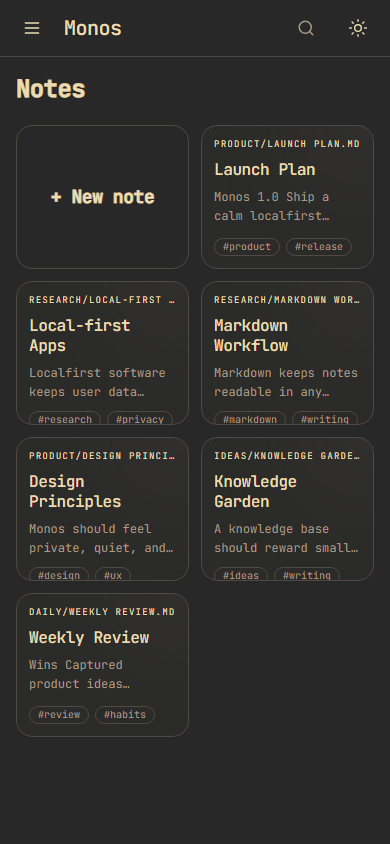
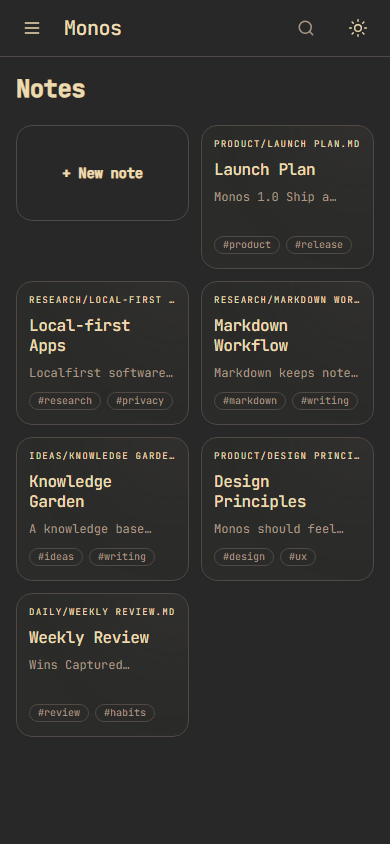
fix: polish public screenshots and note cards
Tighten board card footers, localize opened dates, add real interface screenshots, and clarify the landing page architecture.

diff --git a/site/index.html b/site/index.html
@@ -43,7 +43,7 @@
       }
 
       .page {
-        width: min(1120px, calc(100% - 32px));
+        width: min(1180px, calc(100% - 32px));
         margin: 0 auto;
       }
 
@@ -57,20 +57,12 @@
       .brand {
         display: flex;
         align-items: center;
-        gap: 12px;
         font-weight: 760;
         letter-spacing: -0.03em;
       }
 
-      .mark {
-        display: grid;
-        width: 36px;
-        height: 36px;
-        place-items: center;
-        border: 1px solid var(--line);
-        border-radius: 12px;
-        background: linear-gradient(145deg, #2f2b24, #1f1d1a);
-        color: var(--accent);
+      .brand-word {
+        font-size: 18px;
       }
 
       .nav-links {
@@ -81,12 +73,13 @@
       }
 
       .hero {
-        display: grid;
-        grid-template-columns: 1fr 0.82fr;
-        gap: 56px;
-        align-items: center;
-        min-height: 680px;
-        padding: 56px 0 80px;
+        padding: 56px 0 88px;
+        text-align: center;
+      }
+
+      .hero-copy {
+        max-width: 820px;
+        margin: 0 auto;
       }
 
       .eyebrow {
@@ -112,7 +105,7 @@
 
       .lead {
         max-width: 620px;
-        margin: 24px 0 0;
+        margin: 24px auto 0;
         color: var(--muted);
         font-size: clamp(18px, 2vw, 22px);
         line-height: 1.58;
@@ -121,6 +114,7 @@
       .actions {
         display: flex;
         flex-wrap: wrap;
+        justify-content: center;
         gap: 12px;
         margin-top: 34px;
       }
@@ -147,6 +141,8 @@
 
       .mock {
         position: relative;
+        margin: 52px auto 0;
+        max-width: 1024px;
         border: 1px solid var(--line);
         border-radius: 30px;
         background: linear-gradient(180deg, #2a2926, #1e1e1c);
@@ -255,7 +251,7 @@
 
       .screenshots {
         display: grid;
-        grid-template-columns: 1.2fr 0.8fr;
+        grid-template-columns: repeat(2, minmax(0, 1fr));
         gap: 18px;
         align-items: start;
       }
@@ -266,6 +262,10 @@
         border-radius: 26px;
         background: var(--bg-soft);
         box-shadow: var(--shadow);
+      }
+
+      .shot.wide {
+        grid-column: 1 / -1;
       }
 
       .shot.mobile {
@@ -306,6 +306,55 @@
         gap: 12px;
       }
 
+      .architecture-map {
+        display: grid;
+        grid-template-columns: 0.85fr 1fr 1fr;
+        gap: 14px;
+        margin-bottom: 22px;
+        align-items: stretch;
+      }
+
+      .system-card {
+        min-height: 150px;
+        padding: 22px;
+        border: 1px solid var(--line);
+        border-radius: 24px;
+        background: rgba(255, 255, 255, 0.035);
+      }
+
+      .system-card strong {
+        display: block;
+        margin-bottom: 10px;
+      }
+
+      .system-card p,
+      .system-card li {
+        color: var(--muted);
+        line-height: 1.55;
+      }
+
+      .system-card ul {
+        margin: 0;
+        padding-left: 1.1rem;
+      }
+
+      .trust-strip {
+        display: grid;
+        grid-template-columns: repeat(3, 1fr);
+        gap: 12px;
+        margin: 18px 0 34px;
+      }
+
+      .trust-item {
+        border: 1px solid rgba(142, 192, 124, 0.24);
+        border-radius: 18px;
+        padding: 14px;
+        color: var(--accent-2);
+        background: rgba(142, 192, 124, 0.07);
+        font-size: 13px;
+        line-height: 1.45;
+      }
+
       .step {
         padding: 20px;
         border: 1px solid var(--line);
@@ -330,7 +379,9 @@
         .mock-body,
         .features,
         .screenshots,
-        .architecture {
+        .architecture,
+        .architecture-map,
+        .trust-strip {
           grid-template-columns: 1fr;
         }
 
@@ -354,8 +405,7 @@
     <div class="page">
       <nav class="nav" aria-label="Primary">
         <a class="brand" href="#">
-          <span class="mark">M</span>
-          <span>Monos</span>
+          <span class="brand-word">Monos</span>
         </a>
         <div class="nav-links">
           <a href="#features">Features</a>
@@ -367,7 +417,7 @@
 
       <main>
         <section class="hero">
-          <div>
+          <div class="hero-copy">
             <div class="eyebrow">Local-first notes for focused thinking</div>
             <h1>Your knowledge base, on your machine.</h1>
             <p class="lead">
@@ -431,10 +481,28 @@
             the website.
           </p>
           <div class="screenshots">
+            <figure class="shot wide">
+              <img src="media/monos-dashboard.png" alt="Monos dashboard with a mock product knowledge base" loading="lazy" />
+              <figcaption class="shot-caption">
+                Board view keeps recent notes visible as compact cards, including tags, content snippets, and the last opened time.
+              </figcaption>
+            </figure>
             <figure class="shot">
               <img src="media/monos-editor.png" alt="Monos editor with a mock launch plan note" loading="lazy" />
               <figcaption class="shot-caption">
                 Rich editor, note tree, wiki link text, and Markdown content in the desktop layout.
+              </figcaption>
+            </figure>
+            <figure class="shot">
+              <img src="media/monos-search.png" alt="Monos search results over a mock knowledge base" loading="lazy" />
+              <figcaption class="shot-caption">
+                Header search works across titles, tags, and note bodies while keeping the board as the main surface.
+              </figcaption>
+            </figure>
+            <figure class="shot">
+              <img src="media/monos-settings.png" alt="Monos settings screen for theme and typography" loading="lazy" />
+              <figcaption class="shot-caption">
+                Settings expose the practical controls: theme, typography, editor mode, locale, and Git sync.
               </figcaption>
             </figure>
             <figure class="shot mobile">
@@ -449,8 +517,32 @@
         <section class="section" id="architecture">
           <h2>Simple architecture, clear ownership.</h2>
           <p class="section-intro">
-            Electron hosts a local Express API and a Svelte frontend. Markdown files remain the source of truth.
+            Electron hosts a local Express API and a Svelte frontend. Markdown files remain the source of truth, while
+            SQLite stays a rebuildable index.
           </p>
+          <div class="architecture-map" aria-label="Monos technical architecture">
+            <div class="system-card">
+              <strong>Electron Shell</strong>
+              <p>Creates the desktop window, resolves the OS user data directory, and starts the local backend.</p>
+            </div>
+            <div class="system-card">
+              <strong>Local Express API</strong>
+              <p>Runs on localhost only and validates filesystem paths before reading or writing notes.</p>
+            </div>
+            <div class="system-card">
+              <strong>User Data</strong>
+              <ul>
+                <li>Markdown notes in `notes/`</li>
+                <li>SQLite cache in `.data/`</li>
+                <li>Optional Git remote for sync</li>
+              </ul>
+            </div>
+          </div>
+          <div class="trust-strip">
+            <div class="trust-item">No cloud account is required by default.</div>
+            <div class="trust-item">Personal notes are runtime data, not repository content.</div>
+            <div class="trust-item">The database can be rebuilt from Markdown files.</div>
+          </div>
           <div class="architecture">
             <div class="step">
               <span>01</span>

diff --git a/webui/frontend/src/components/NoteCard.svelte b/webui/frontend/src/components/NoteCard.svelte
@@ -1,7 +1,7 @@
 <script>
   import { createEventDispatcher } from 'svelte';
   import { highlightExcerpt, searchSnippet } from '../lib/search.js';
-  import { localizedText } from '../lib/strings.js';
+  import { locale, localizedText } from '../lib/strings.js';
 
   export let note;
   export let query = '';
@@ -27,10 +27,10 @@
     return /^last opened:/i.test(text) ? '' : text;
   }
 
-  function formatOpenedDate(value) {
+  function formatOpenedDate(value, currentLocale = 'en') {
     const date = value ? new Date(value) : null;
     if (!date || Number.isNaN(date.getTime())) return '';
-    return new Intl.DateTimeFormat(undefined, {
+    return new Intl.DateTimeFormat(currentLocale || 'en', {
       month: 'short',
       day: 'numeric',
       hour: '2-digit',
@@ -50,10 +50,10 @@
   $: hiddenTagCount = Math.max(0, tags.length - visibleTags.length);
   $: excerpt = excerptText(note?.excerpt);
   $: visibleExcerpt = highlight && query ? searchSnippet(excerpt, query, compact ? 56 : 180) : excerpt;
-  $: openedDate = formatOpenedDate(note?.lastOpened);
+  $: openedDate = formatOpenedDate(note?.lastOpened, $locale);
   $: cardStyle = `--note-accent: ${accent}; --note-tint: color-mix(in srgb, ${accent} 13%, transparent); --note-glow: color-mix(in srgb, ${accent} 18%, transparent);`;
   $: cardClass = compact
-    ? 'note-card group relative flex h-36 w-full flex-col overflow-hidden rounded-2xl border border-[var(--border-subtle)] bg-[var(--bg-primary)] px-3 py-3 text-left shadow-sm shadow-black/[0.03] transition hover:border-[var(--text-secondary)]/40'
+    ? 'note-card group relative flex h-36 w-full flex-col overflow-hidden rounded-2xl border border-[var(--border-subtle)] bg-[var(--bg-primary)] px-3 pb-3.5 pt-3 text-left shadow-sm shadow-black/[0.03] transition hover:border-[var(--text-secondary)]/40'
     : 'note-card group relative flex h-48 w-full flex-col overflow-hidden rounded-3xl border border-[var(--border-subtle)] bg-[var(--bg-primary)] px-4 py-4 text-left shadow-sm shadow-black/[0.03] transition hover:border-[var(--text-secondary)]/40 sm:px-5 sm:hover:-translate-y-0.5 sm:hover:shadow-xl sm:hover:shadow-black/10';
 </script>
 
@@ -91,7 +91,7 @@
   </span>
 
   {#if compact && visibleTags.length > 0}
-    <span class="relative mt-auto flex min-w-0 shrink-0 gap-1.5 pt-2">
+    <span class="relative mt-auto flex min-w-0 shrink-0 gap-1.5 pt-1.5">
       {#each visibleTags as tag}
         <span class="min-w-0 truncate rounded-full border border-[var(--border-subtle)] bg-[var(--bg-primary)]/45 px-2 py-0.5 text-[10px] leading-tight text-[var(--text-secondary)]">
           #{tag}
@@ -99,7 +99,7 @@
       {/each}
     </span>
   {:else if !compact}
-    <span class="relative mt-auto flex min-w-0 shrink-0 flex-col gap-1.5 pt-3">
+    <span class="relative mt-auto flex min-w-0 shrink-0 flex-col gap-2.5 pt-3">
       <span class="flex h-6 min-w-0 flex-wrap gap-1.5 overflow-hidden">
       {#if visibleTags.length > 0}
         {#each visibleTags as tag}
@@ -114,7 +114,7 @@
         {/if}
       {/if}
       </span>
-      <span class="h-4 truncate text-[10px] uppercase tracking-[0.12em] text-[var(--text-secondary)]/60">
+      <span class="min-h-4 truncate text-[10px] uppercase tracking-[0.12em] text-[var(--text-secondary)]/60">
       {#if openedDate || note?.category}
         {#if openedDate}
           {$localizedText.app.board.opened} {openedDate}
@@ -136,8 +136,8 @@
   .compact-excerpt {
     display: -webkit-box;
     -webkit-box-orient: vertical;
-    -webkit-line-clamp: 2;
-    line-clamp: 2;
+    -webkit-line-clamp: 1;
+    line-clamp: 1;
     overflow: hidden;
   }
 

diff --git a/webui/frontend/src/components/NoteBoard.svelte b/webui/frontend/src/components/NoteBoard.svelte
@@ -295,10 +295,10 @@
         {#if showCreateCard && groupIndex === 0 && !query.trim()}
           <button
             type="button"
-            class="{mobile ? 'h-36 rounded-2xl px-3 py-3' : 'h-48 rounded-3xl px-4 py-4 sm:px-5'} group flex w-full flex-col items-center justify-center overflow-hidden border border-[var(--border-subtle)] bg-[var(--bg-primary)] text-center shadow-sm shadow-black/[0.03] transition hover:border-[var(--text-secondary)]/45 hover:bg-[var(--bg-secondary)]/45"
+            class="{mobile ? 'h-24 rounded-2xl px-3 py-3' : 'h-36 rounded-3xl px-4 py-4 sm:px-5'} group flex w-full flex-col items-center justify-center overflow-hidden border border-[var(--border-subtle)] bg-[var(--bg-primary)] text-center shadow-sm shadow-black/[0.03] transition hover:border-[var(--text-secondary)]/45 hover:bg-[var(--bg-secondary)]/45"
             on:click={createNote}
           >
-            <span class="block font-serif text-lg font-semibold tracking-tight text-[var(--text-primary)] transition group-hover:text-[var(--text-primary)]">
+            <span class="block font-serif text-sm font-semibold tracking-tight text-[var(--text-primary)] transition group-hover:text-[var(--text-primary)] sm:text-base">
               {$localizedText.app.homeActions.newNote}
             </span>
           </button>